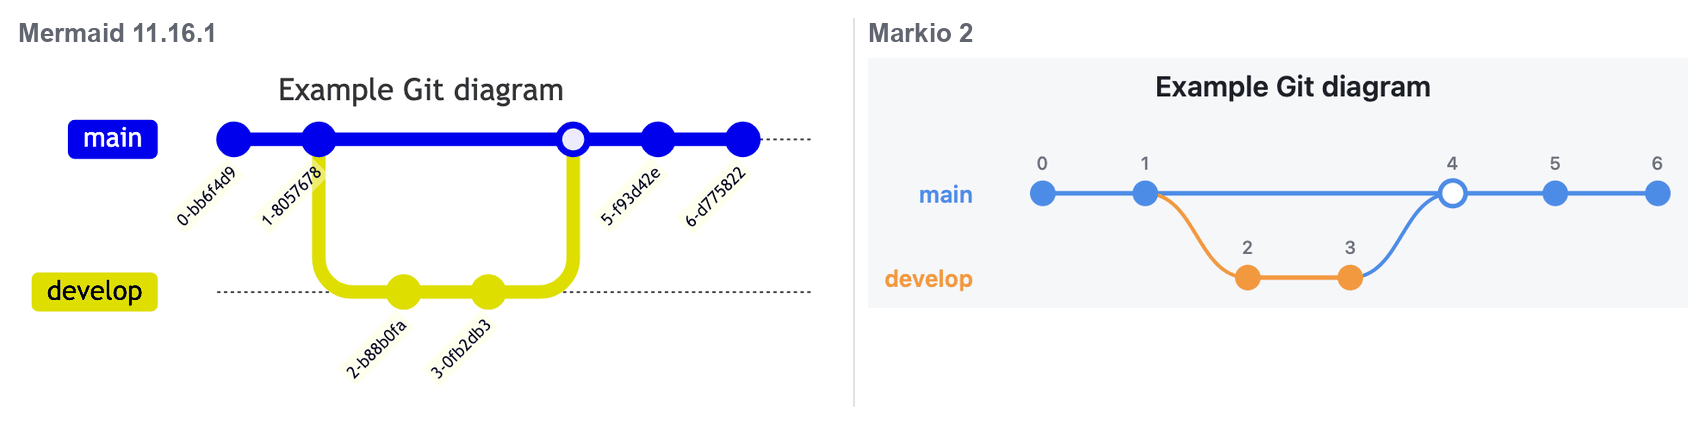
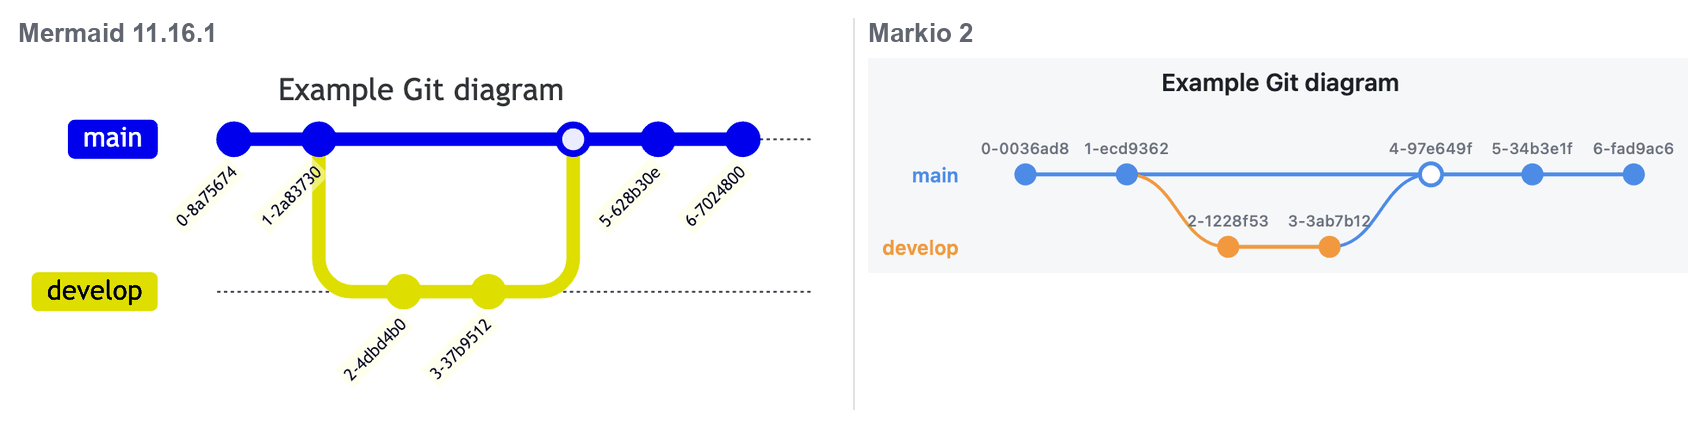
fix: let a line reach a frame, a rule keep its minutes, a commit keep its hash
Three pictures said something the source did not.

A line ending on a frame went round the frame's own name to get there, so the
two arrows leaving a state machine's start crossed over each other and bent for
no reason a reader could name. A name is in the way of lines passing it, not of
the one arriving under it.

A gantt `vert` and a milestone lost the length they were written with, so every
task after one began two minutes early and the chart stopped short of its last
rule. Only the drawing ignores that length now. The axis steps in round amounts
of time and stands its ticks at round moments of the clock, instead of seven
minutes apart from wherever the chart happened to open.

A commit nobody named was written as its number alone. It now carries the hash
Mermaid writes beside it, worked out from the graph rather than drawn at random
so two runs of the same source agree, and the commits stand as far apart as
their names are wide.

diff --git a/Sources/MarkioRender/MermaidLayout.swift b/Sources/MarkioRender/MermaidLayout.swift
@@ -1708,7 +1708,25 @@ enum MermaidLayout {
             min(430 * metrics.scale, span * 14 * metrics.scale))
         // How far apart the ticks stand: what the chart asked for when it asked,
         // and otherwise as many as fit without the dates running together.
-        var tickStep = span / Double(max(2, min(4, Int(plotWidth / dateWidth))))
+        //
+        // A step worked out from the span alone lands on figures nobody counts
+        // in — seven minutes, nineteen hours — so the room the labels leave is
+        // only the starting point, and the step itself is the next round amount
+        // of time above it. A chart with no date in it is counted in whole days,
+        // and its axis says so, so the rounder steps are the only ones it takes.
+        let whole: [Double] = [1, 2, 7, 14, 30, 90, 180, 365]
+        let second: Double = 1 / 86400
+        let minute: Double = 1 / 1440
+        let hour: Double = 1 / 24
+        var rounds: [Double] = []
+        if chart.origin != nil {
+            for count in [1.0, 2, 5, 10, 15, 30] { rounds.append(count * second) }
+            for count in [1.0, 2, 5, 10, 15, 30] { rounds.append(count * minute) }
+            for count in [1.0, 2, 3, 6, 12] { rounds.append(count * hour) }
+        }
+        rounds += whole
+        let room = span / Double(max(2, min(4, Int(plotWidth / dateWidth))))
+        var tickStep = rounds.first { $0 >= room } ?? max(room, 365)
         if let interval = chart.tickInterval {
             let days: Double
             switch interval.unit {
@@ -1722,7 +1740,22 @@ enum MermaidLayout {
             }
             tickStep = max(days * Double(interval.count), span / 60)
         }
-        let ticks = max(1, Int((span / max(tickStep, 0.0001)).rounded(.down)))
+        // A chart told in hours has its ticks at round moments of the clock
+        // rather than at multiples of its own start, so one opening at 17:32 is
+        // still read against 17:35 and 17:40. A chart told in days already
+        // starts on a whole day, and counting its ticks from any other one only
+        // moves the first of them off the edge of the plot.
+        let ticks: [Double] = {
+            let step = max(tickStep, 0.0001)
+            let began = step < 1 ? (chart.origin ?? 0) : 0
+            var day = (began / step).rounded(.up) * step - began
+            var found: [Double] = []
+            while day <= span + 1e-9, found.count < 200 {
+                found.append(day)
+                day += step
+            }
+            return found.isEmpty ? [0] : found
+        }()
         let perDay = span > 0 ? plotWidth / span : plotWidth
         let content = gutter + plotWidth
 
@@ -1807,8 +1840,7 @@ enum MermaidLayout {
                     color: theme.palette.tableBorder.copy(alpha: 0.35)
                         ?? theme.palette.tableBorder, cornerRadius: 0))
         }
-        for step in 0...ticks {
-            let day = min(span, tickStep * Double(step))
+        for day in ticks {
             let x = plotLeft + CGFloat(day) * perDay
             let rule = CGMutablePath()
             rule.move(to: CGPoint(x: x, y: bodyTop))
@@ -1911,10 +1943,13 @@ enum MermaidLayout {
             let barTop = y + pad
             let barHeight = rowHeight - pad * 2
             if task.milestone {
-                // No length to draw, so a milestone is the diamond the day it
-                // falls on, not a bar of zero width nobody would see.
+                // A milestone is a moment rather than a stretch, so it is drawn
+                // as a diamond and not as a bar of no width nobody would see.
+                // The moment is the middle of whatever length it was written
+                // with, which for the usual `0d` is simply the day it falls on.
                 let centre = CGPoint(
-                    x: plotLeft + CGFloat(task.start) * perDay, y: barTop + barHeight / 2)
+                    x: plotLeft + CGFloat(task.start + task.length / 2) * perDay,
+                    y: barTop + barHeight / 2)
                 let radius = barHeight / 2
                 let diamond = CGMutablePath()
                 diamond.move(to: CGPoint(x: centre.x, y: centre.y - radius))
@@ -2974,14 +3009,25 @@ enum MermaidLayout {
             (graph.branches.map {
                 measure(text($0, font: branchFont, color: theme.palette.text)).width
             }.max() ?? 0) + 14 * metrics.scale
-        let step = 56 * metrics.scale
-        let lane = 46 * metrics.scale
-        let radius = 7 * metrics.scale
-        let columns = (graph.commits.map(\.column).max() ?? 0) + 1
         // Turned on its side the lanes run down the page: what was a column of
         // commits becomes a row of them, and the branch names sit above their
         // lanes rather than beside them.
         let down = graph.vertical
+        // A commit is named under its dot, and a name is far wider than a dot:
+        // laid across the page the commits have to stand as far apart as their
+        // names, or a row of hashes runs into itself. Down the page the names
+        // stack instead and the dots need no more room than they take.
+        let tagFont = scaled(theme.bodyBold, by: metrics.scale * 0.8)
+        let widest =
+            graph.commits.map {
+                max(
+                    measure(text($0.label, font: font, color: theme.palette.text)).width,
+                    measure(text($0.tag, font: tagFont, color: theme.palette.text)).width)
+            }.max() ?? 0
+        let step = down ? 56 * metrics.scale : max(56 * metrics.scale, widest + 8 * metrics.scale)
+        let lane = 46 * metrics.scale
+        let radius = 7 * metrics.scale
+        let columns = (graph.commits.map(\.column).max() ?? 0) + 1
         let nameHeight =
             (graph.branches.map {
                 measure(text($0, font: branchFont, color: theme.palette.text)).height
@@ -3135,13 +3181,12 @@ enum MermaidLayout {
             // on each other.
             // Every commit is named under the graph, whether its author named
             // it or not: a row of unlabelled dots says nothing about which
-            // commit is which. Mermaid writes a random hash for the ones with
-            // no name; there is no repository here to take one from, so what
-            // stands there is the commit's place in the graph.
+            // commit is which. The name a graph gives an unnamed commit is
+            // settled when it is read, so there is nothing left to decide here.
             let name = commit.label.isEmpty ? "\(order)" : commit.label
             for (words, above) in [(name, true), (commit.tag, false)] where !words.isEmpty {
                 let line = text(
-                    words, font: above ? font : scaled(theme.bodyBold, by: metrics.scale * 0.8),
+                    words, font: above ? font : tagFont,
                     color: above ? theme.palette.secondaryText : colour)
                 let size = measure(line)
                 decorations.append(
@@ -3449,20 +3494,30 @@ enum MermaidLayout {
         // arriving anywhere else along the top should stop at the border rather
         // than a line's height above it — so it stands in the way as a box does,
         // and only a line that would really cross a name goes round one.
-        let nameplates = chart.groups.indices.compactMap { group -> CGRect? in
-            guard let rect = frames[group], !chart.groups[group].title.isEmpty else { return nil }
+        //
+        // Except for the line that ends on the frame itself. That line is on its
+        // way to the border the name is written above, so a name treated as
+        // something to go round sends it out to one side and back, and a pair of
+        // such lines leaves their common start crossed over each other.
+        var nameplates: [Int: CGRect] = [:]
+        for group in chart.groups.indices {
+            guard let rect = frames[group], !chart.groups[group].title.isEmpty else { continue }
             let said = labelLines(
                 chart.groups[group].title, font: labelFont, color: theme.palette.text
             ).size
-            return CGRect(
+            nameplates[group] = CGRect(
                 x: rect.minX, y: rect.minY - titleRoom, width: said.width + 8 * metrics.scale,
                 height: titleRoom)
         }
         func standing(between edge: Flowchart.Edge, _ from: CGRect, _ to: CGRect) -> [CGRect] {
             let inside = held(by: edge, chart: chart)
+            var named = nameplates
+            for end in [edge.from, edge.to] {
+                if case .frame(let group) = end { named[group] = nil }
+            }
             return boxes.indices
                 .filter { !inside.contains($0) && boxes[$0].frame != from && boxes[$0].frame != to }
-                .map { boxes[$0].frame } + nameplates
+                .map { boxes[$0].frame } + named.sorted { $0.key < $1.key }.map(\.value)
         }
         // A line that has to go round something runs down a lane beside it, and
         // the lanes are handed out for the picture as a whole: an edge choosing

diff --git a/Sources/MarkioRender/MermaidPlots.swift b/Sources/MarkioRender/MermaidPlots.swift
@@ -337,6 +337,12 @@ struct GitGraph {
         var column = 0
         /// The last commit on each branch, which is what a merge line points at.
         var tips: [Int: Int] = [:]
+        /// The graph's own number, so that two graphs do not name their first
+        /// commits alike. See `named(_:_:)` for what it is for.
+        var seed: UInt64 = 0xcbf2_9ce4_8422_2325
+        for line in lines {
+            for byte in line.utf8 { seed = (seed ^ UInt64(byte)) &* 0x100_0000_01b3 }
+        }
         for line in lines {
             let word = String(line.prefix(while: { !$0.isWhitespace }))
             let rest = line.dropFirst(word.count).trimmingCharacters(in: .whitespaces)
@@ -345,7 +351,8 @@ struct GitGraph {
                 guard let options = options(rest) else { return nil }
                 graph.commits.append(
                     Commit(
-                        label: options.id, tag: options.tag, branch: current, column: column,
+                        label: options.id.isEmpty ? named(column, seed) : options.id,
+                        tag: options.tag, branch: current, column: column,
                         merges: nil, picks: nil, kind: options.kind))
                 tips[current] = graph.commits.count - 1
                 column += 1
@@ -381,7 +388,8 @@ struct GitGraph {
                 guard let options else { return nil }
                 graph.commits.append(
                     Commit(
-                        label: options.id, tag: options.tag, branch: current, column: column,
+                        label: options.id.isEmpty ? named(column, seed) : options.id,
+                        tag: options.tag, branch: current, column: column,
                         merges: tip, picks: nil, kind: options.kind))
                 tips[current] = graph.commits.count - 1
                 column += 1
@@ -391,6 +399,26 @@ struct GitGraph {
         }
         guard !graph.commits.isEmpty else { return nil }
         return graph
+    }
+
+    /// What a commit nobody named is called: its place in the graph, a dash,
+    /// and a short hash — `2-ad6c9c3`, which is what a git log shows.
+    ///
+    /// Mermaid puts seven random hex characters there, and a picture that
+    /// changes every time it is drawn cannot be compared with the one drawn
+    /// before it. So the seven are worked out from the graph and the commit's
+    /// place in it: a reader sees a hash, and two runs agree on which one.
+    private static func named(_ column: Int, _ seed: UInt64) -> String {
+        var hash = seed
+        for byte in "\(column)".utf8 { hash = (hash ^ UInt64(byte)) &* 0x100_0000_01b3 }
+        // Stirred once more, or the hashes of two commits standing next to each
+        // other come out alike but for a character, and a column of near-twins
+        // reads as a mistake rather than as seven hex digits.
+        hash ^= hash >> 33
+        hash = hash &* 0xff51_afd7_ed55_8ccd
+        hash ^= hash >> 33
+        let hex = String(hash & 0xfff_ffff, radix: 16)
+        return "\(column)-" + String(repeating: "0", count: max(0, 7 - hex.count)) + hex
     }
 
     /// `id: "Alpha" tag: "v1.0" type: HIGHLIGHT parent: "B"`

diff --git a/Tests/MarkioRenderTests/MermaidTests.swift b/Tests/MarkioRenderTests/MermaidTests.swift
@@ -1723,7 +1723,10 @@ final class MermaidTests: XCTestCase {
             return XCTFail("expected a gantt chart")
         }
         XCTAssertEqual(chart.tasks.map(\.vertical), [true, false, false])
-        XCTAssertEqual(chart.tasks[0].length, 0)
+        // A rule is drawn at one moment, but the two minutes it was written with
+        // are still its own: the task under it begins where those minutes end.
+        XCTAssertEqual(chart.tasks[0].length, 2.0 / 1440, accuracy: 1e-9)
+        XCTAssertEqual(chart.tasks[1].start, 2.0 / 1440, accuracy: 1e-9)
         // Three minutes is a fiftieth of a day, and the second task follows the
         // first rather than starting with it.
         XCTAssertEqual(chart.tasks[1].length, 3.0 / 1440, accuracy: 1e-9)

diff --git a/Sources/MarkioRender/MermaidCharts.swift b/Sources/MarkioRender/MermaidCharts.swift
@@ -291,7 +291,10 @@ struct GanttChart {
             } else {
                 guard task.length >= 0 else { return nil }
             }
-            if task.milestone || task.vertical { task.length = 0 }
+            // A milestone and a rule are drawn at a moment rather than over a
+            // stretch, but the stretch they were written with is still theirs:
+            // the task under one begins where it ends, and the chart reaches as
+            // far as it does. Only the drawing ignores the length.
             previousEnd = task.start + task.length
             if let identifier {
                 guard !identifier.isEmpty, !identifier.contains(" ") else { return nil }

diff --git a/documents/design.md b/documents/design.md
@@ -422,7 +422,10 @@ a bend and an arrowhead sit square on the line's real direction.
 border and nothing more: its name is written above it and to the left, so
 counting the whole strip as the frame's own would stop every line a whole line's
 height short with nothing under its head. The name stands in the way as a box
-does instead, and only a line that would really cross a name goes round one. The
+does instead, and only a line that would really cross a name goes round one —
+except for the line that ends on the frame the name belongs to, which is on its
+way to the border under it. Sending that line out to one side and back is what
+crossed the two arrows leaving a state machine's start over each other. The
 line stops at the border and never crosses it; the mark on the end is drawn in the room the
 line gives up for it and faces along the last stretch of line. A box that is not
 a rectangle — a diamond, a circle, a cylinder — has a rectangle standing well
@@ -603,11 +606,15 @@ its own. `gitGraph TB:` turns the lanes down the page rather than across it:
 the same graph, with the two axes swapped and the branch names moved above their
 lanes. A `cherry-pick` is drawn as a dotted line back to the commit it copied,
 because a copy is the same work said twice rather than one line running on.
-A commit nobody named is written by its place in the graph — the first is `0`,
-the next `1` — because that is the half of Mermaid's own name for it that means
-anything. The other half is a random string standing in for a hash, and there is
-no repository behind this picture to take a real one from; inventing one would
-put a number in front of the reader that refers to nothing. What a commit is decides how its
+A commit nobody named is written the way Mermaid writes it: its place in the
+graph, a dash, and seven hex characters — `2-ad6c9c3`, which is what a git log
+shows. Mermaid draws seven random ones, and a picture that changes every time it
+is drawn cannot be compared with the one drawn before it, so the seven are worked
+out from the graph and the commit's place in it. A reader sees a hash and two
+runs agree on which one. The names are what set how far apart the commits stand
+across the page: a hash is far wider than the dot it belongs to, and Mermaid
+turns its names on their side to fit them where this one gives them the room.
+What a commit is decides how its
 dot is drawn: a merge is hollow because it is the one commit belonging to two
 lines at once, a `REVERSE` is crossed out, a `HIGHLIGHT` is ringed. A `type:`
 nobody here draws is refused rather than read as an ordinary commit — that is
@@ -632,12 +639,20 @@ and whatever stands between them — so a chart written any way Mermaid allows
 lands on the right days. `excludes` and `includes` turn a length into a count of
 working days: the bar then reaches further along the calendar than its `3d` says,
 and the days off are shaded behind it so the difference is visible rather than
-mysterious. A milestone has no length, so it is drawn as a diamond on its day rather
-than a bar nobody would see. The axis carries whole dates, year included: a
-chart that runs over a new year would otherwise label two different days the
-same way. How wide a date is decides both how wide the plot has to be and how
-many ticks can be labelled, so the number of ticks follows from the room rather
-than being fixed at five.
+mysterious. A milestone and a `vert` rule are drawn at a moment rather than over
+a stretch — a diamond and a heavy line — but the length each was written with is
+still its own: the task under one begins where it ends and the chart reaches as
+far as it does, so only the drawing ignores it. The axis carries whole dates,
+year included: a chart that runs over a new year would otherwise label two
+different days the same way. How wide a date is decides both how wide the plot
+has to be and how many ticks can be labelled, so the number of ticks follows
+from the room rather than being fixed at five. That room is only the starting
+point for the step itself, which is the next round amount of time above it —
+worked out from the span alone it lands on figures nobody counts in, seven
+minutes or nineteen hours. A chart told in hours then puts its ticks at round
+moments of the clock, so one opening at 17:32 is still read against 17:35 and
+17:40; a chart told in days already starts on a whole day, and counting its ticks
+from any other one would only move the first of them off the edge of the plot.
 
 A packet diagram is a row per word of bits. A gap between two fields is a run of
 bits the author left unspoken, and it is drawn as the empty stretch it is; two
